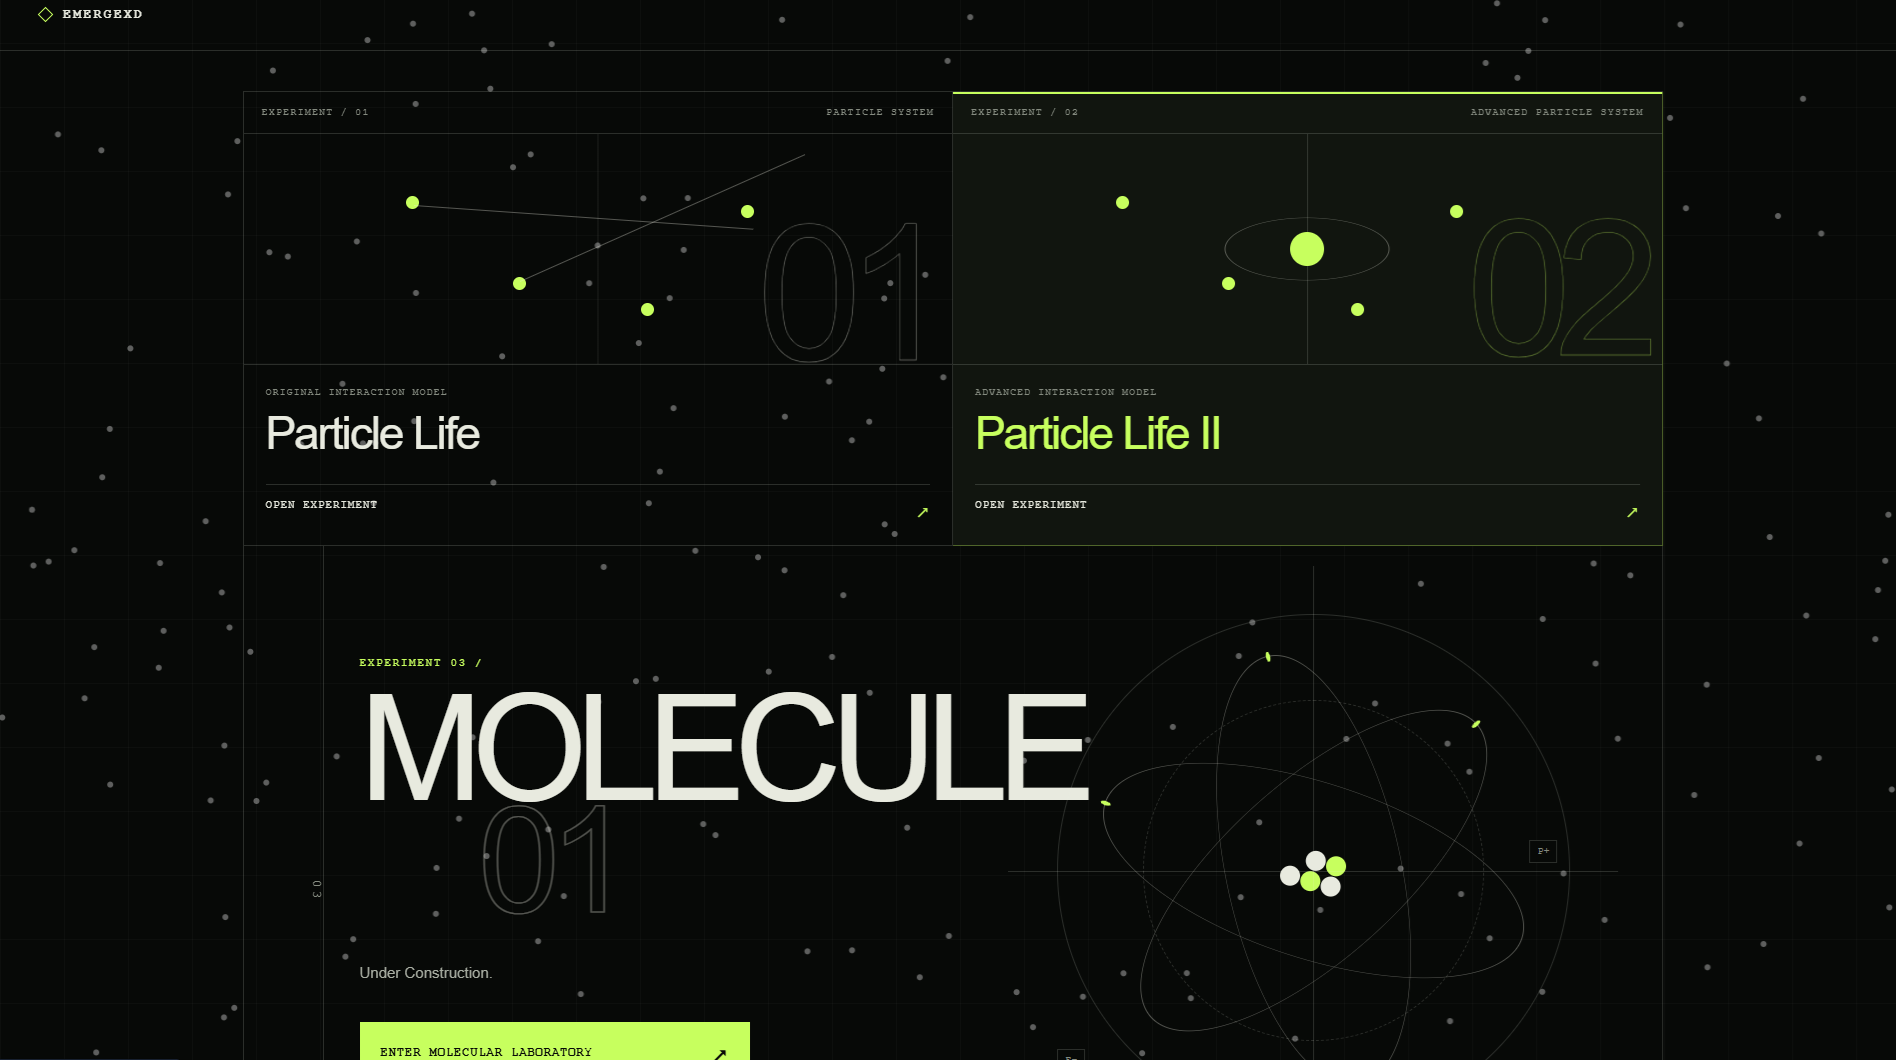
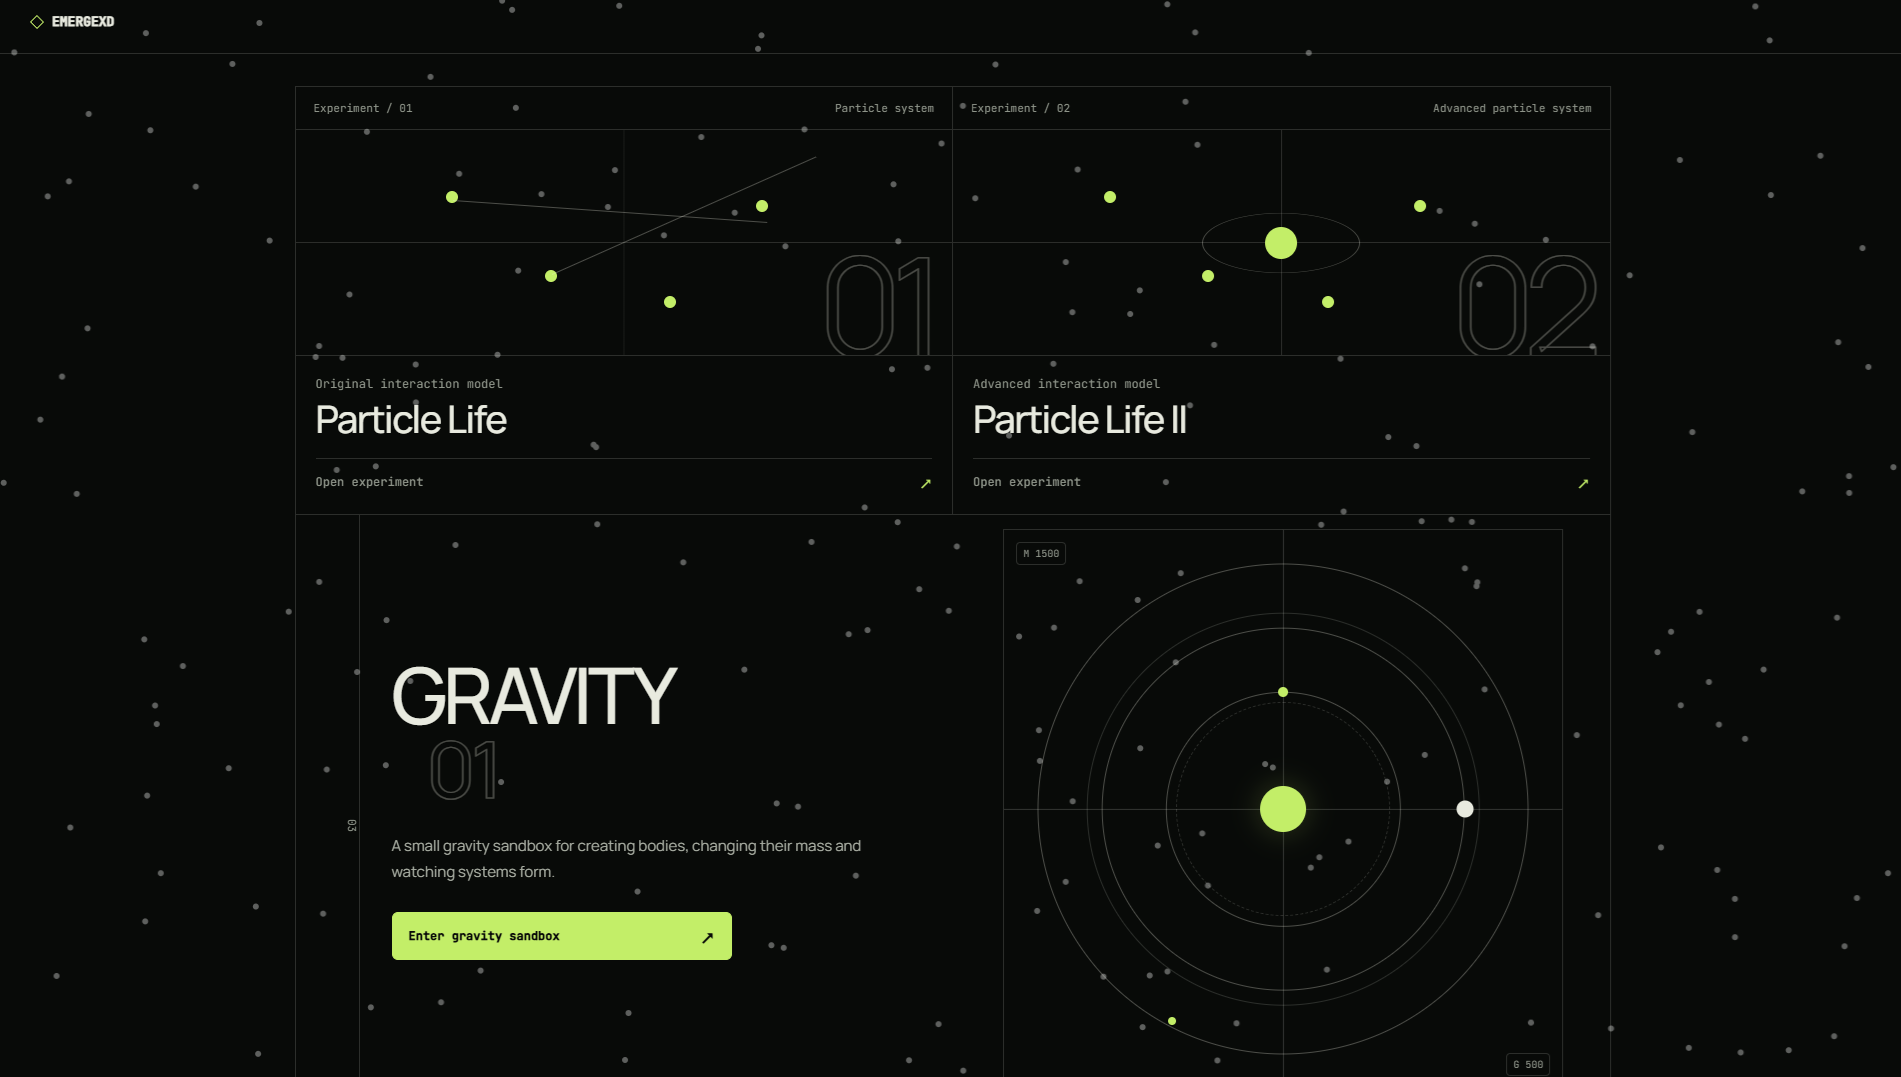
Replace landing page image with latest image

diff --git a/README.md b/README.md
@@ -42,16 +42,13 @@ First Porject in EmergexD series
 
 #### Improvements and new features:
 
-- More distinct presets with different spawn configurations
-- Options for re-roll and custom seeds
+- New distinct presets that spawn differently
 - Ability to adjust interaction radius and simulation speed
-- Interaction happens in a fixed time step
-- Improved lookup performance with group ID and interaction matrix
-- Smoother camera movements due to PixiJS stage transforms
-- Reset behavior re-creates the current preset
-- Simulations use seeds, so they give the same results when using the same seed
-- More accurate particle spawns using custom spawn position and velocity functions.
-- Improvements in controls, stats, and preset behaviors.
+- Interaction takes place at fixed intervals
+- Better performance
+- Smoother Camera movement due to PixiJS
+- The reset option creates the same preset again
+- Simulations are based on the seed, which means they produce the same result with the same seed.
 
 #### Screenshots
 
